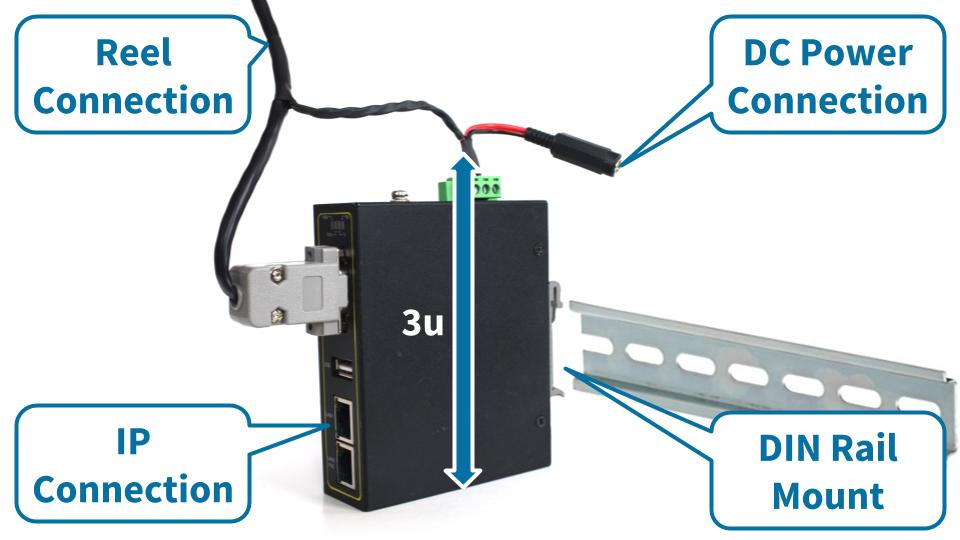
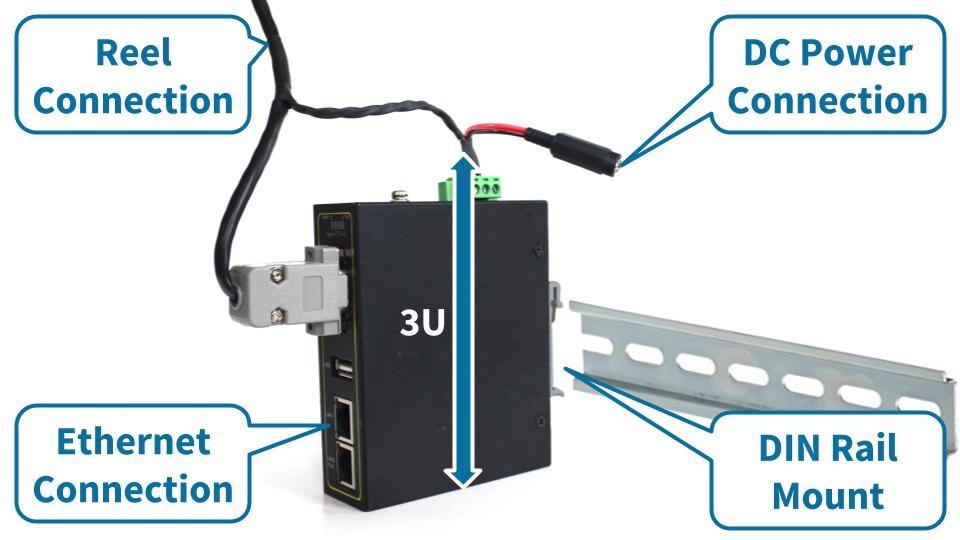
Added server details

Changed region(s): [[0.0625, 0.7704, 0.2188, 0.8593], [0.4062, 0.563, 0.4688, 0.6222]]

diff --git a/reel-deployment.html b/reel-deployment.html
@@ -240,9 +240,38 @@
               Serving <br>
               <small> Connecting the reels to the IP network </small>
             </h2>
-            <p> &nbsp; </p>
+            <p> Each reel receives power and connectivity from a hub, which is typically installed in a server room.  The '0' cable of each reel should be connected to a patch panel, if available, or a junction box (and labelled in either case). </p>
+            <p> The hub is an industrial serial-Ethernet converter with DIN Rail mounting capability.  The hub can be securely mounted in two ways: </p>
+            <ol>
+              <li> on a DIN Rail affixed to a wall
+              <li> within a rack, occupying 3U, using a DIN Rail adapter
+            </ol>
+            <p> </p>
             <img src="images/deployment-server.jpg"
                  class="img-responsive"> <br>
+            <table class="table table-hover table-reelyactive">
+              <caption> HUB CONNECTIONS </caption>
+              <thead>
+                <tr>
+                  <th> Connection </th>
+                  <th> Details </th>
+                </tr>
+              </thead>
+              <tbody>
+                <tr>
+                  <th> Reel </th>
+                  <td> <p> Connect to the '0' cable of the reel via the patch panel or junction box. </p> <i> The hub's cable harness provides a RJ-45 plug. </i> </td>
+                </tr>
+                <tr>
+                  <th> Ethernet </th>
+                  <td> <p> Connect via patch cable to an Ethernet switch providing network connectivity. </p> <i> The hub provides a RJ-45 jack. </i> </td>
+                </tr>
+                <tr>
+                  <th> Power </th>
+                  <td> <p> Connect to a 24VDC supply. </p> <i> The hub's cable harness provides a barrel connector jack (2mm x 5.5mm). </i> </td>
+                </tr>
+              </tbody>
+            </table>
             <hr>
             <h2> What's next? </h2>
             <p> Learn more about our reel architecture, or return to the diyActive home page. </p>
